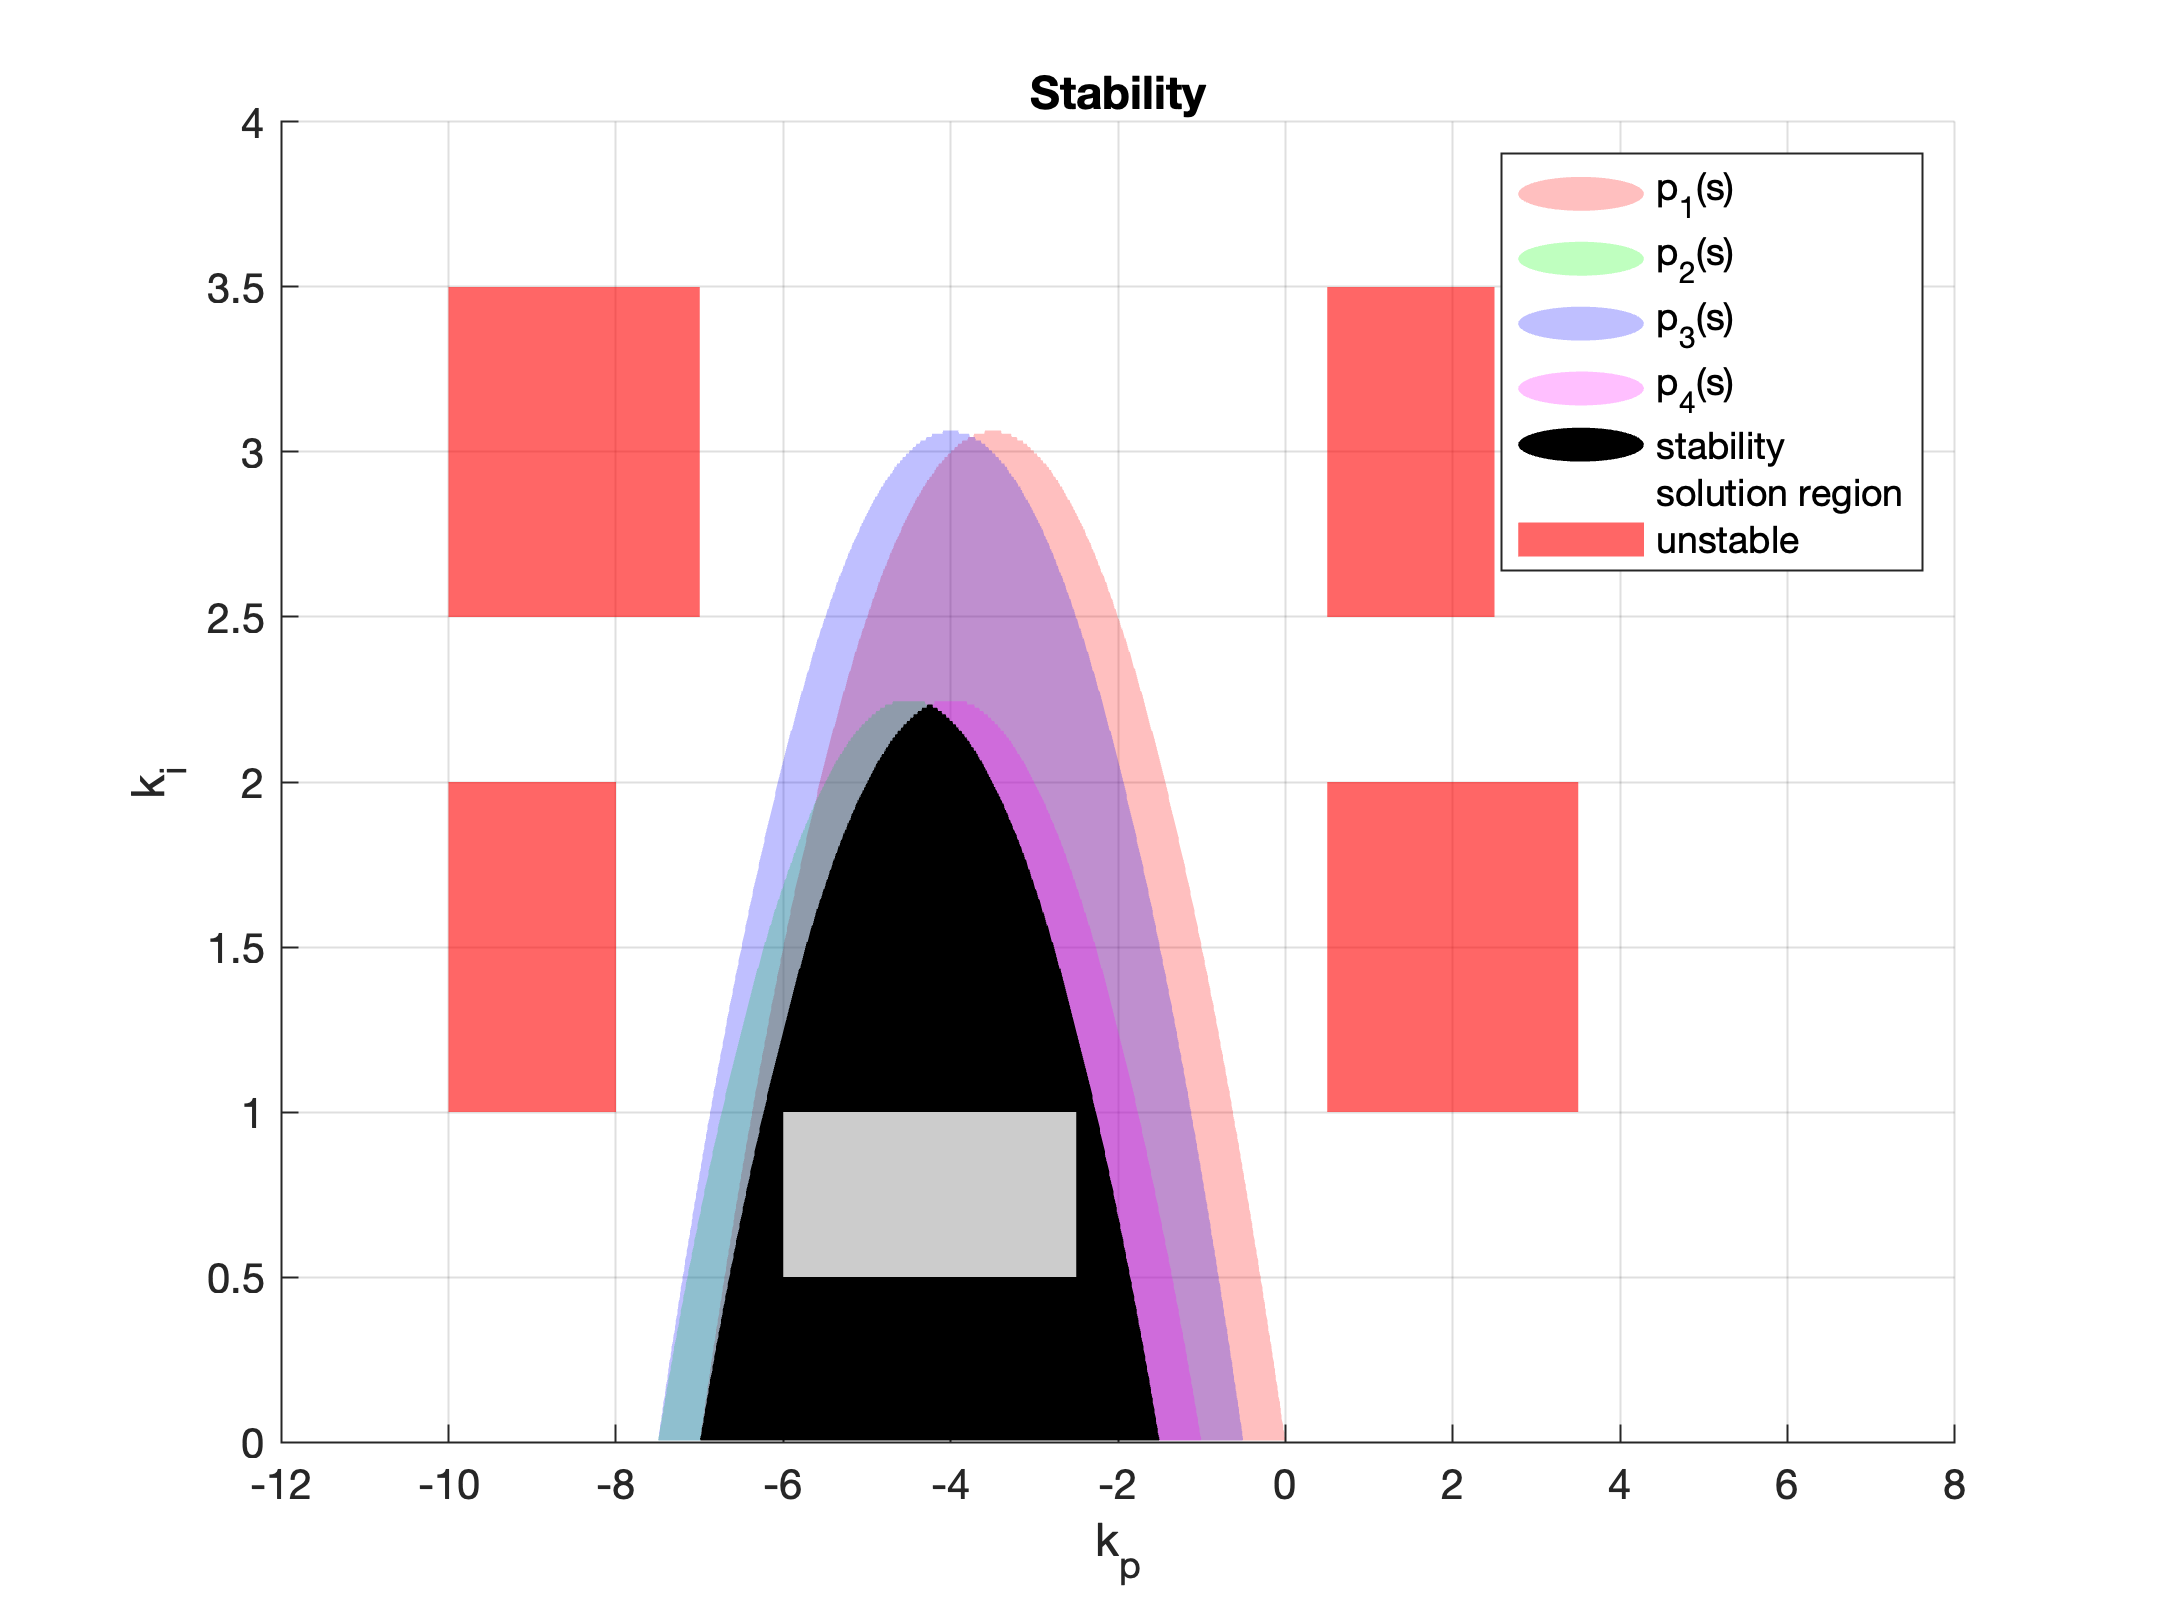
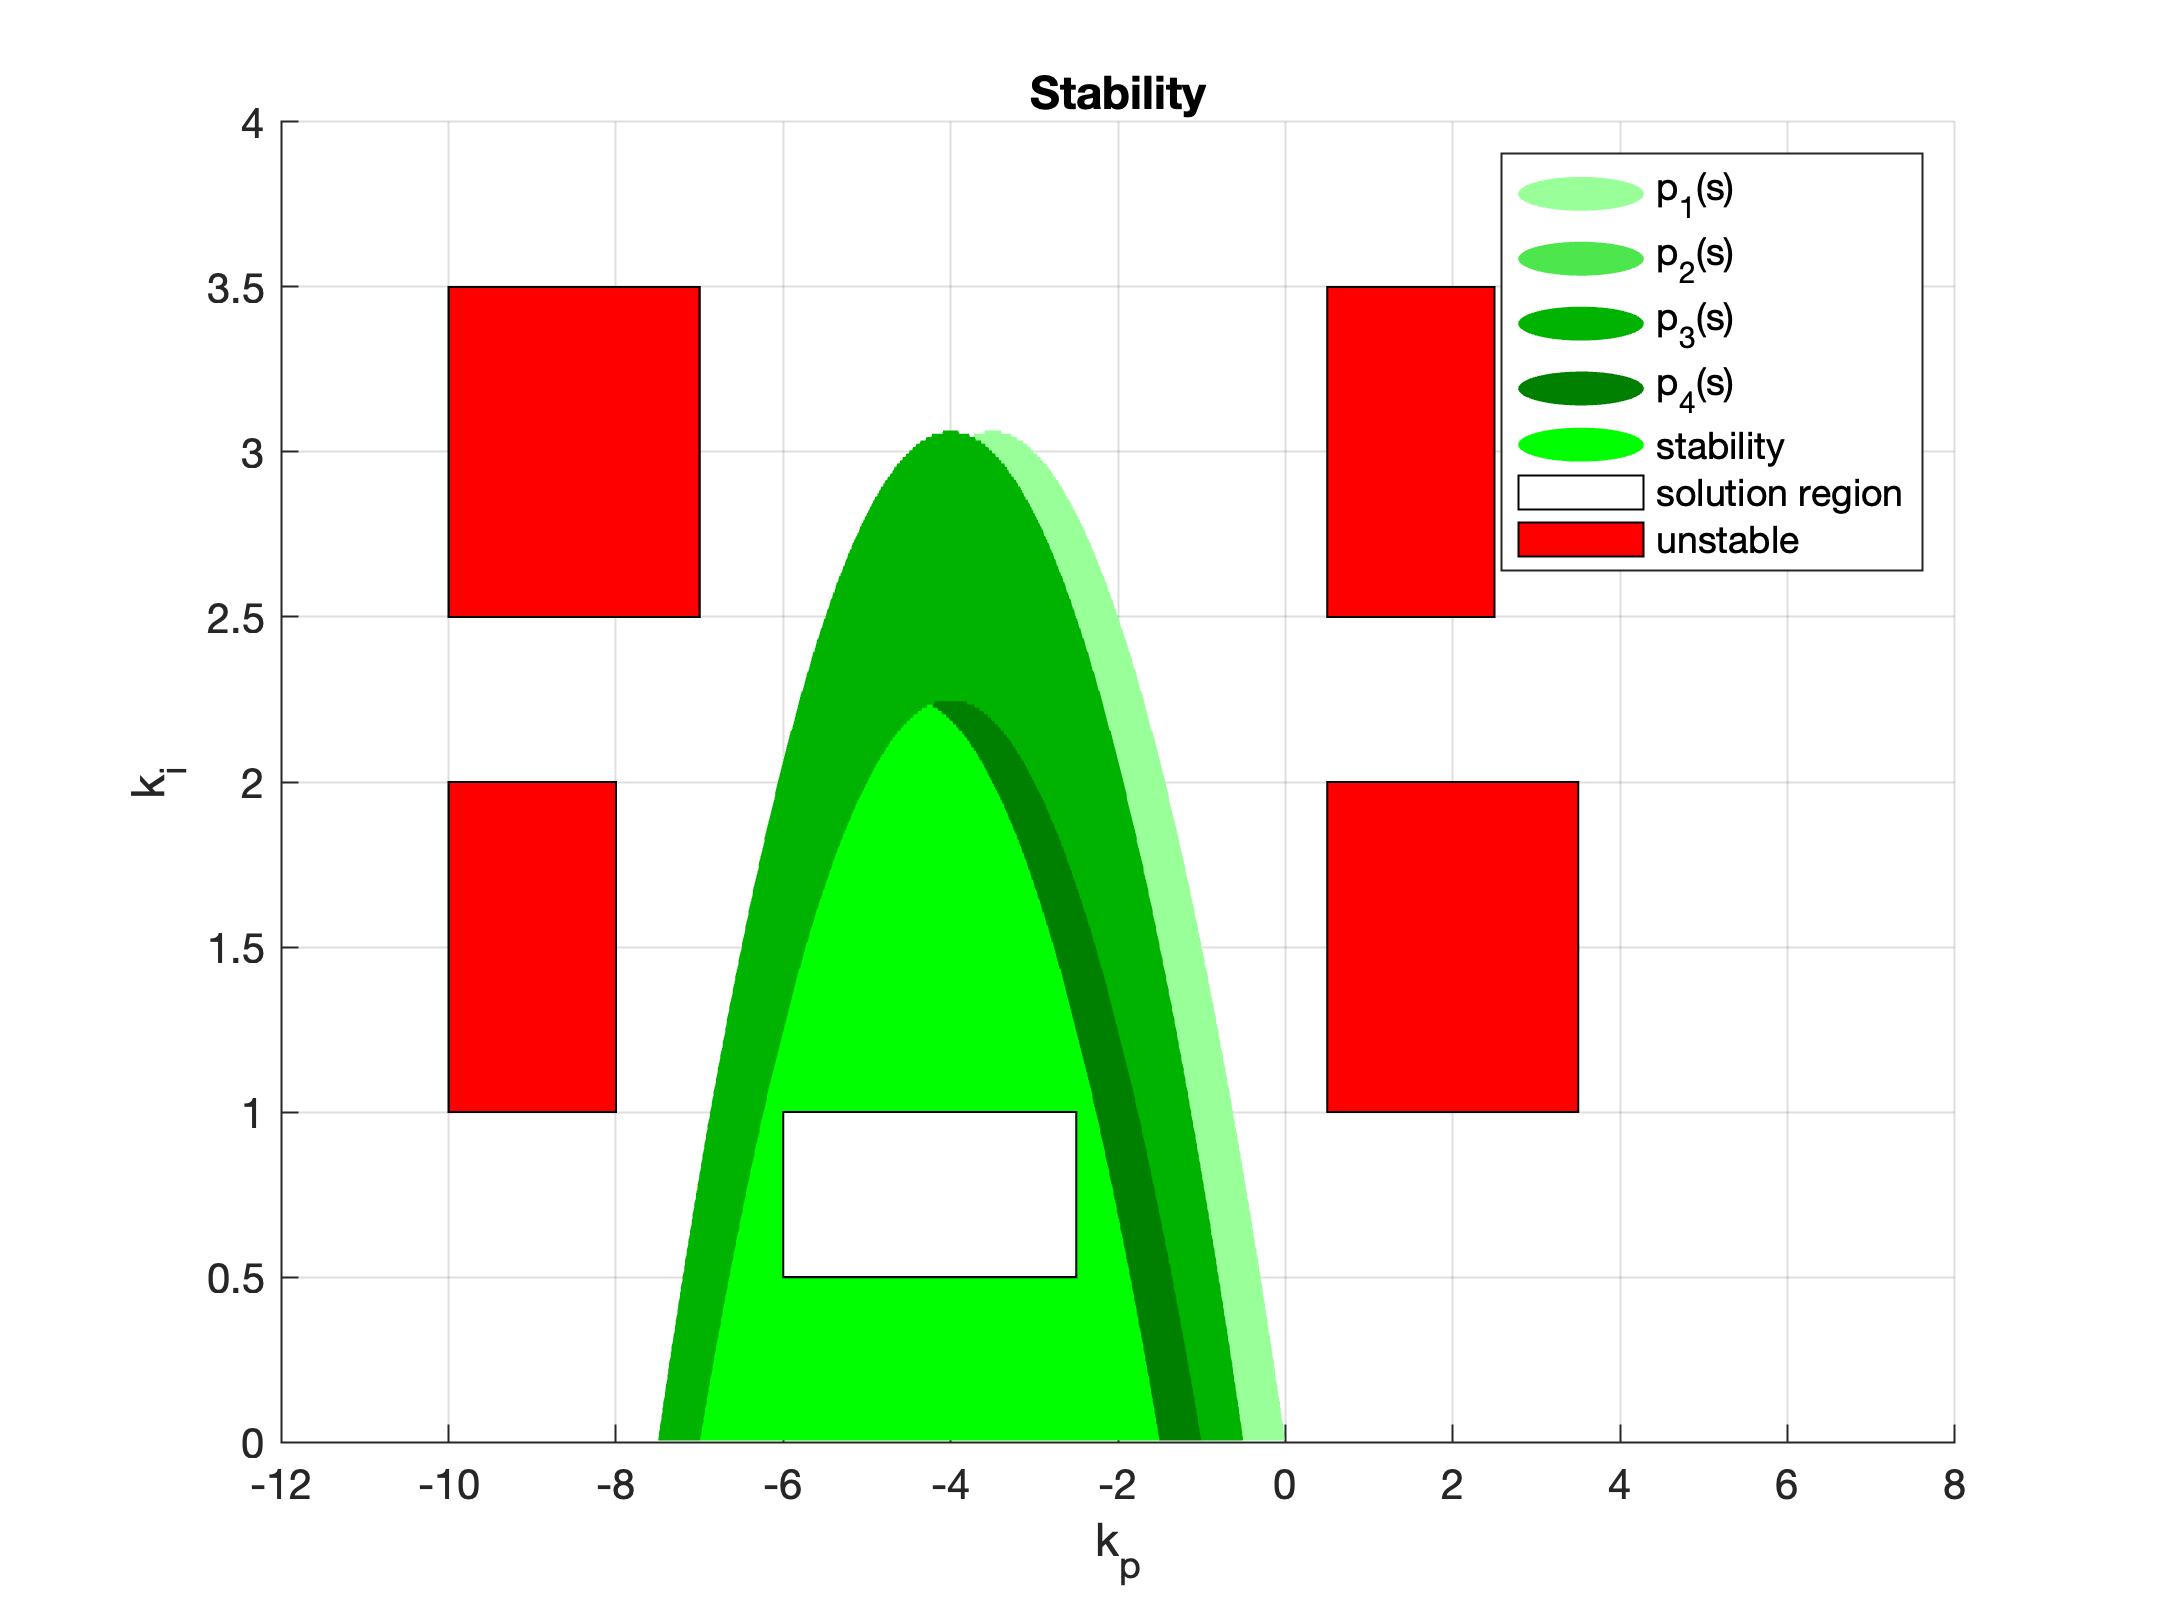
visual fix of pi stability region plot

Changed region(s): [[0.1861, 0.2469, 0.7444, 0.8951], [0.5894, 0.0926, 0.7755, 0.4012], [0.1861, 0.1543, 0.3412, 0.4012]]

diff --git a/pi/qdesign.m b/pi/qdesign.m
@@ -52,50 +52,58 @@ stabTot=stab1&stab2&stab3&stab4;
 solReg=@(kp,ki,kvec)(kp>=kvec(1))&(kp<=kvec(2))&(ki>=kvec(3))&(ki<=kvec(4));
 stabSol=solReg(kpmat,kimat,kstable);
 
+colors = [
+    0.6, 1.0, 0.6;  % Region 1
+    0.3, 0.9, 0.3;  % Region 2
+    0.0, 0.7, 0.0;  % Region 3
+    0.0, 0.5, 0.0;  % Region 4
+    0.0, 1.0, 0.0   % Intersection
+];
+
 figure(1);clf;hold on;grid on;
 xlabel("k_p");ylabel("k_i");title("Stability");
 contourf(kpmat, kimat, stab1, [0.5 1], 'LineColor','none',...
-'FaceColor','r','FaceAlpha',0.25);
+'FaceColor',colors(1,:),'FaceAlpha',1);
 contourf(kpmat, kimat, stab2, [0.5 1], 'LineColor','none',...
-'FaceColor','g','FaceAlpha',0.25);
+'FaceColor',colors(2,:),'FaceAlpha',1);
 contourf(kpmat, kimat, stab3, [0.5 1], 'LineColor','none',...
-'FaceColor','b','FaceAlpha',0.25);
+'FaceColor',colors(3,:),'FaceAlpha',1);
 contourf(kpmat, kimat, stab4, [0.5 1], 'LineColor','none',...
-'FaceColor','m','FaceAlpha',0.25);
+'FaceColor',colors(4,:),'FaceAlpha',1);
 
 contourf(kpmat, kimat, stabTot, [0.5 1], 'LineColor','none',...
-'FaceColor','k','FaceAlpha',1);
+'FaceColor',colors(5,:),'FaceAlpha',1);
 
 % fill([kpsolmin kpsolmax kpsolmax kpsolmin], ...
 %      [kisolmin kisolmin kisolmax kisolmax], ...
 %% stable
 fill([kstable(1) kstable(2) kstable(2) kstable(1)], ...
      [kstable(3) kstable(3) kstable(4) kstable(4)], ...
-     [1 1 1], 'FaceAlpha', 0.8, 'EdgeColor', 'none');
+     [1 1 1], 'FaceAlpha', 1, 'EdgeColor', 'k');
 
 %% unstable-1
 kunstable=kunstable1;
 fill([kunstable(1) kunstable(2) kunstable(2) kunstable(1)],...
 [kunstable(3) kunstable(3) kunstable(4) kunstable(4)], ...
-     [1 0 0], 'FaceAlpha', 0.6, 'EdgeColor', 'none');
+     [1 0 0], 'FaceAlpha', 1, 'EdgeColor', 'k');
 
 %% unstable-2
 kunstable=kunstable2;
 fill([kunstable(1) kunstable(2) kunstable(2) kunstable(1)],...
 [kunstable(3) kunstable(3) kunstable(4) kunstable(4)], ...
-     [1 0 0], 'FaceAlpha', 0.6, 'EdgeColor', 'none');
+     [1 0 0], 'FaceAlpha', 1, 'EdgeColor', 'k');
 
 %% unstable-3
 kunstable=kunstable3;
 fill([kunstable(1) kunstable(2) kunstable(2) kunstable(1)],...
 [kunstable(3) kunstable(3) kunstable(4) kunstable(4)], ...
-     [1 0 0], 'FaceAlpha', 0.6, 'EdgeColor', 'none');
+     [1 0 0], 'FaceAlpha', 1, 'EdgeColor', 'k');
 
 %% unstable-4
 kunstable=kunstable4;
 fill([kunstable(1) kunstable(2) kunstable(2) kunstable(1)],...
 [kunstable(3) kunstable(3) kunstable(4) kunstable(4)], ...
-     [1 0 0], 'FaceAlpha', 0.6, 'EdgeColor', 'none');
+     [1 0 0], 'FaceAlpha', 1, 'EdgeColor', 'k');
 
 legend("p_1(s)","p_2(s)","p_3(s)","p_4(s)","stability","solution region","unstable")
 
